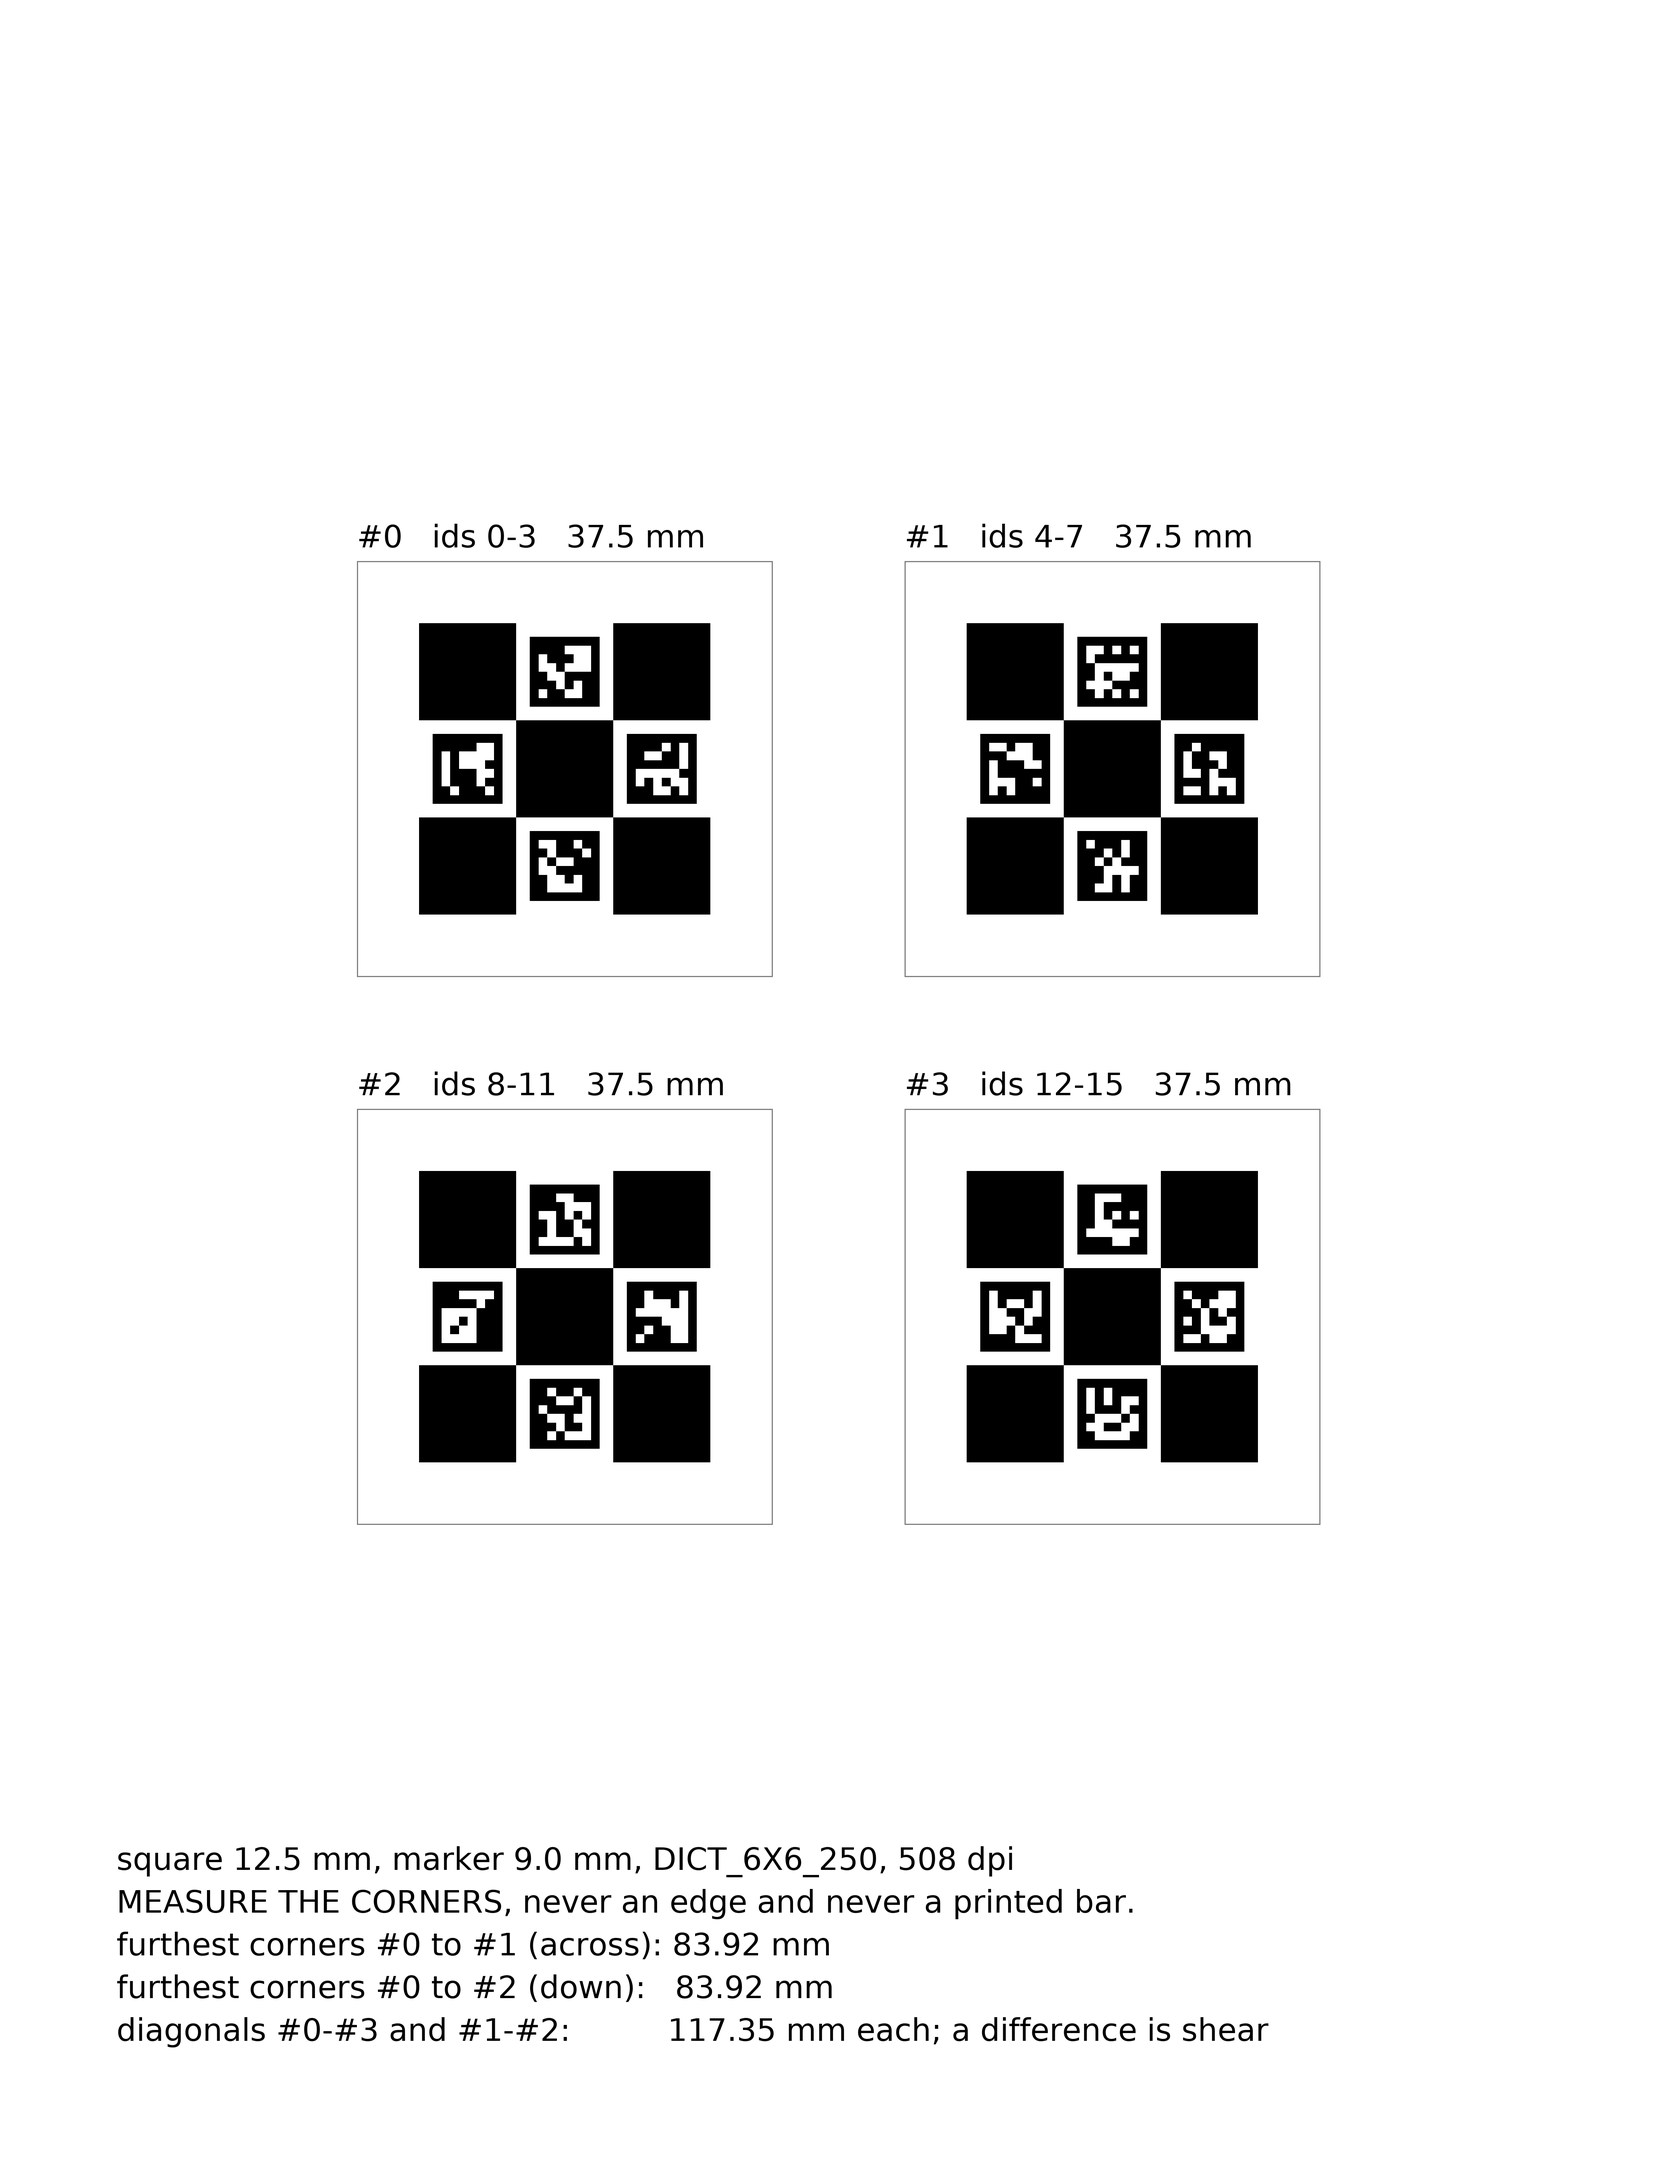
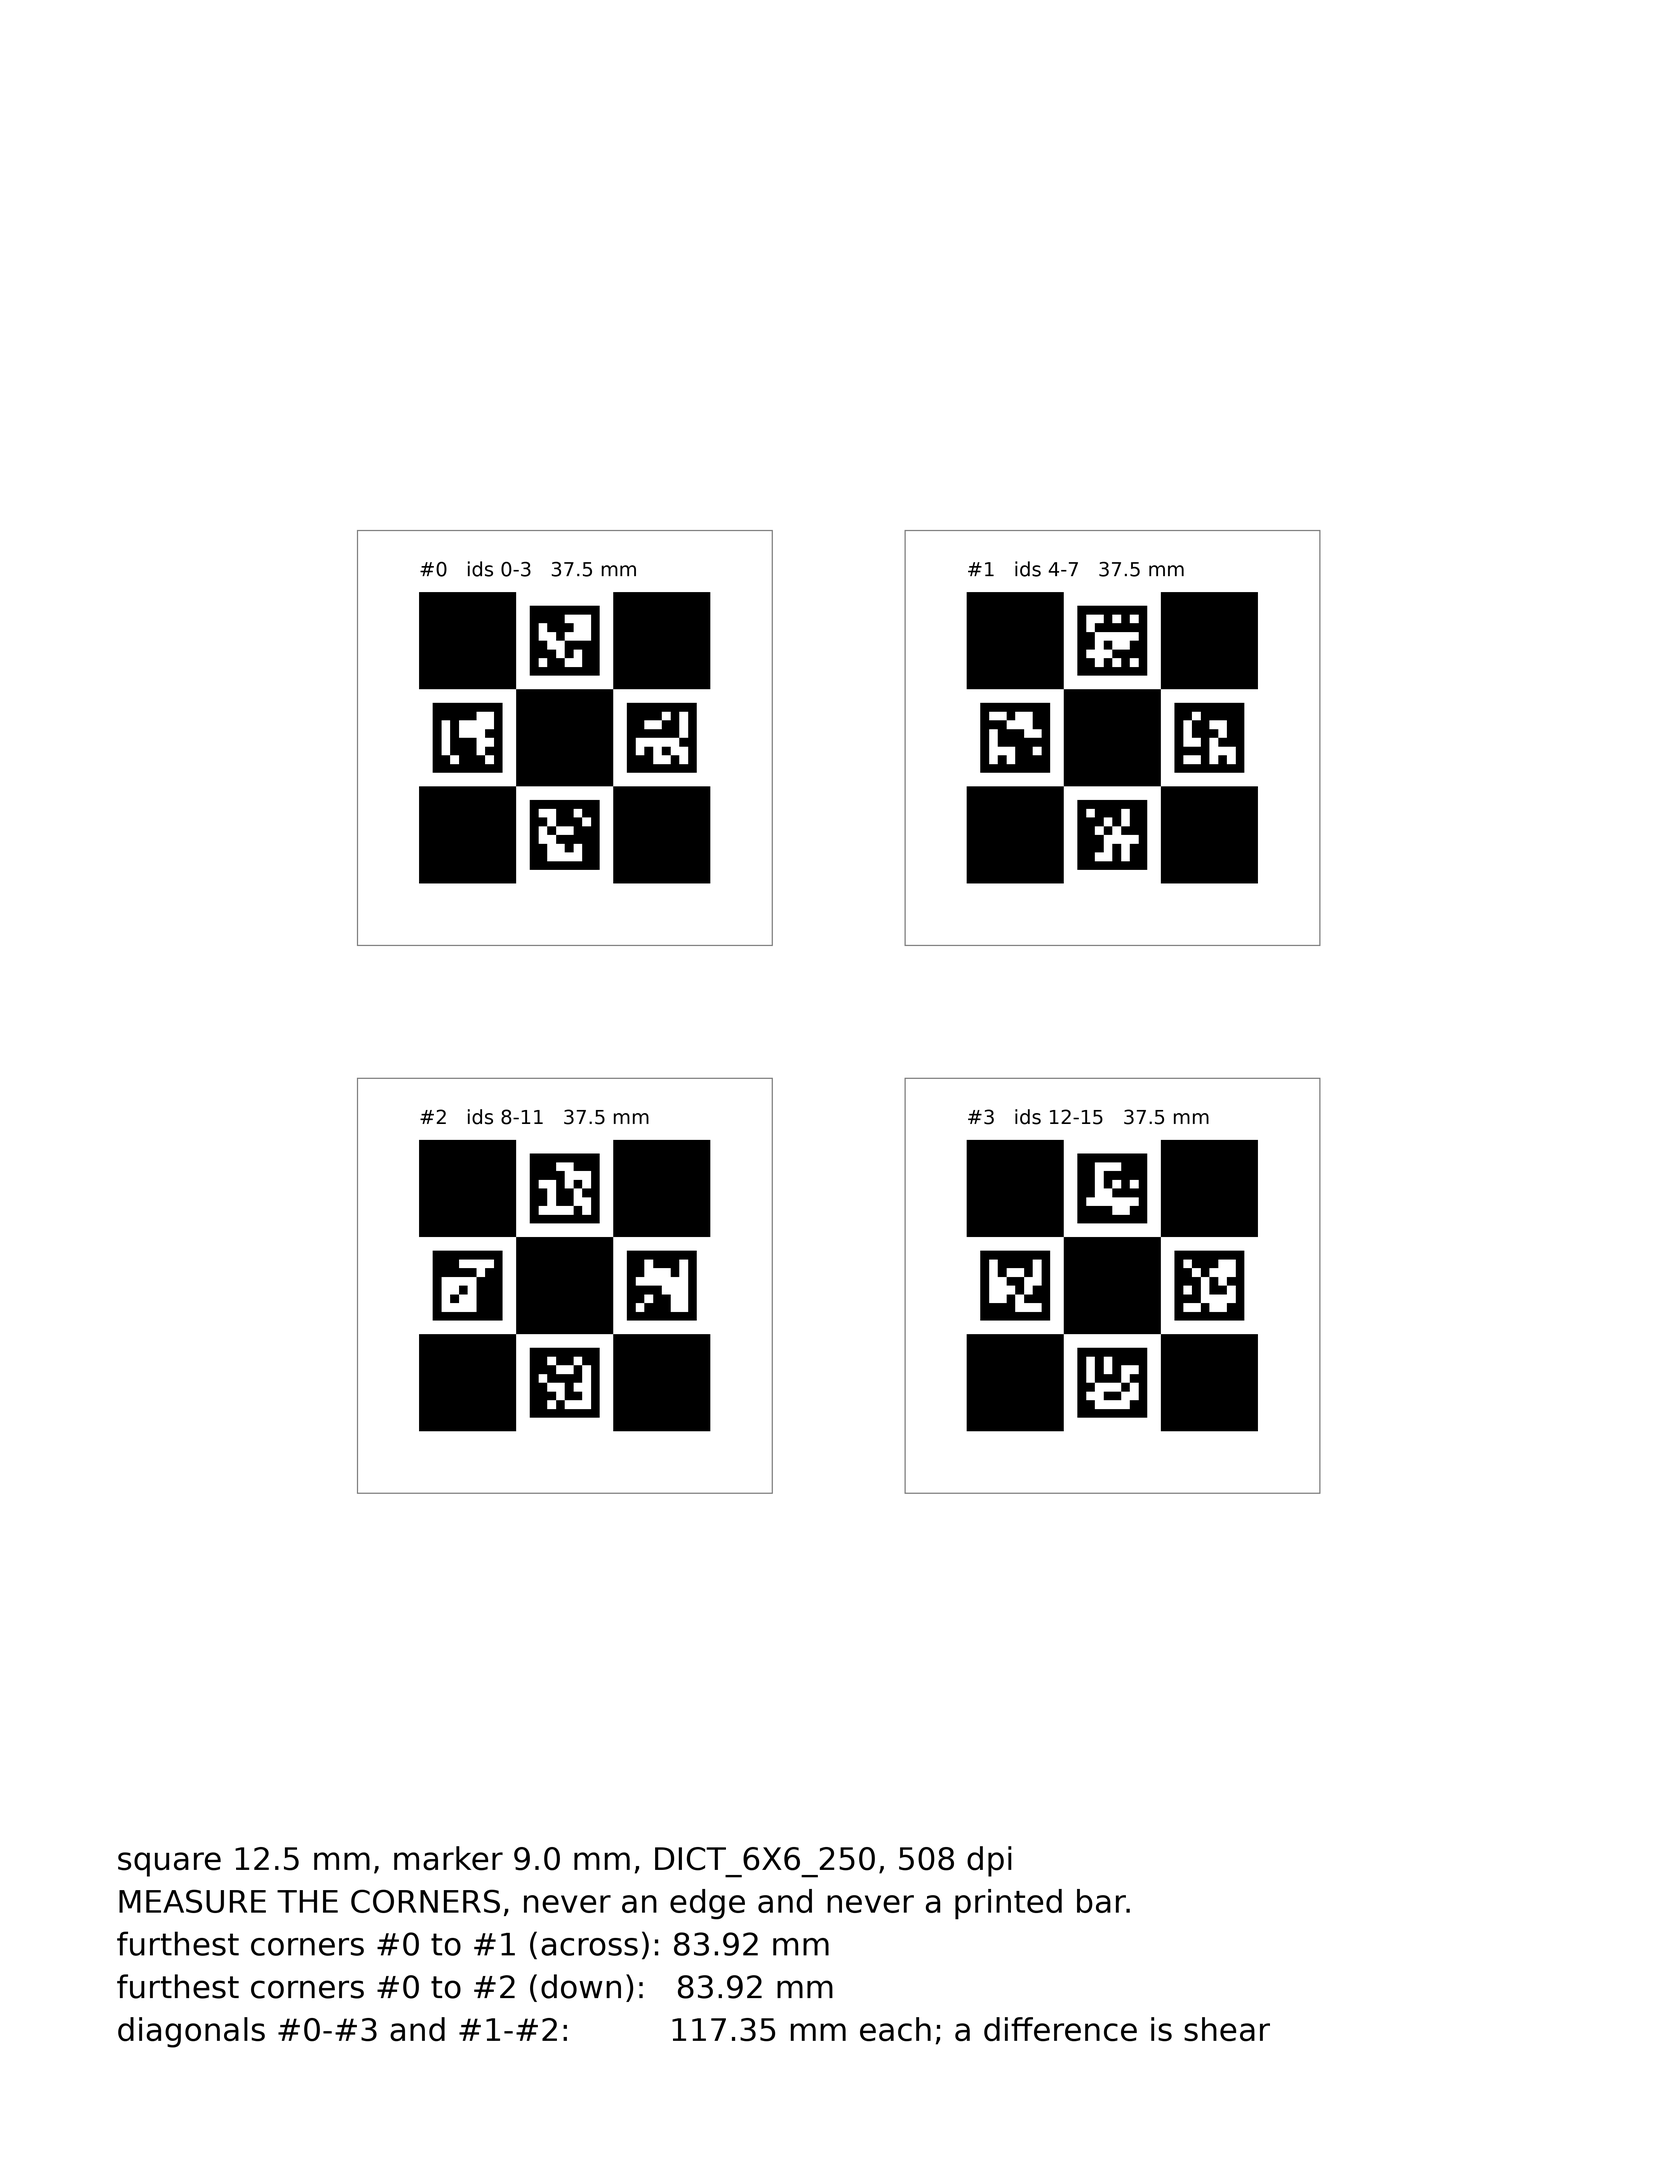
Put the label inside the cut box and shrink it to 2.5 mm
Each piece now comes off the sheet exactly 53.5 mm square carrying
its own "#n ids a-b 37.5 mm". The label was drawn 5.5 mm above the
cut line, so keeping it meant cutting a piece about 62 mm tall and
carrying that onto the disc, and at 4.0 mm em the text was 42.50 mm
wide -- wider than the 37.5 mm board it names. At 2.5 mm em it is
26.55 mm wide with 1.95 mm of ink, about 7.1 pt.

Adds LABEL_EM_MM and LABEL_CLEAR_MM, and places the label by its ink
rather than by its baseline, because a descender is ink too. The
clearance is measured from the ink bottom to the board edge, so it
means what it says whatever the label text turns out to be.

Records at the constant why 2.0 mm of clearance is insurance rather
than a requirement. ChArUco never reads the board outline: it finds
the four interior ArUco markers, whose nearest edge is already
1.75 mm inside the boundary, and a label flush with the board edge
measured 40/40 complete detections with 9 um of corner movement --
the same numbers as no label at all, at 0 and 30 degrees of tilt and
on a white and a grey-60 disc. The 2 mm buys room for registration
error, ink spread and a wobbling blade, none of which that sweep
modelled. docs/planning/labelling-the-cut-targets.md has the sweep.

Refuses a cut margin too narrow for the label rather than printing it
onto the markers, which is the one thing measured to break detection:
2 to 3 mm of overlap destroys the top-middle marker and the remaining
[…]

diff --git a/bin/make_peg_targets_test.py b/bin/make_peg_targets_test.py
@@ -324,8 +324,6 @@ def _ink(sheet, x0_mm, y0_mm, x1_mm, y1_mm):
     return rows / PPM + y0_mm, cols / PPM + x0_mm
 
 
-@pytest.mark.xfail(strict=True,
-                   reason="labels are still outside the cut box")
 def test_the_label_is_inside_the_cut_box():
     """So cutting on the grey line keeps the label.
 
@@ -349,8 +347,6 @@ def test_the_label_is_inside_the_cut_box():
             "label ink outside the cut box sideways")
 
 
-@pytest.mark.xfail(strict=True,
-                   reason="labels are still outside the cut box")
 def test_the_label_keeps_its_clearance_from_the_board():
     """Ink near a marker is the one thing that breaks detection.
 
@@ -373,8 +369,6 @@ def test_the_label_keeps_its_clearance_from_the_board():
             f"less than the {mt.LABEL_CLEAR_MM} mm it should keep")
 
 
-@pytest.mark.xfail(strict=True,
-                   reason="labels are still outside the cut box")
 def test_nothing_is_printed_above_the_cut_box():
     """The cut piece is exactly the cut box, 53.5 mm square.
 
@@ -393,8 +387,6 @@ def test_nothing_is_printed_above_the_cut_box():
             f"cut line, so the piece is taller than its cut box")
 
 
-@pytest.mark.xfail(strict=True,
-                   reason="labels are still outside the cut box")
 def test_the_label_is_the_size_it_claims():
     """Measured off the pixels, because legibility is the point."""
     side = mt.board_side_mm(SQUARES, SQUARE_MM)
@@ -410,16 +402,12 @@ def test_the_label_is_the_size_it_claims():
         "the label is wider than the board it names")
 
 
-@pytest.mark.xfail(strict=True,
-                   reason="labels are still outside the cut box")
 def test_a_margin_too_narrow_for_the_label_is_refused():
     """Rather than printing the label onto the markers."""
     with pytest.raises(ValueError, match="label|margin"):
         _sheet(caliper_mm=CALIPER_MM, margin_mm=1.0)
 
 
-@pytest.mark.xfail(strict=True,
-                   reason="labels are still outside the cut box")
 def test_the_top_of_the_page_is_no_longer_reserved_for_labels():
     """LABEL_SPACE_MM is dead once the labels are inside the box."""
     side = mt.board_side_mm(SQUARES, SQUARE_MM)

diff --git a/data/calibration/targets/peg-targets-3x3-12.5mm.md b/data/calibration/targets/peg-targets-3x3-12.5mm.md
@@ -25,6 +25,17 @@ the squares. The four chessboard corners each piece contributes are
 but a cut a millimetre inside it destroys the contrast a corner is
 made of.
 
+**The label is inside the cut box, so cutting on the grey line keeps
+it.** Each piece comes off the sheet 53.5 mm square carrying its own
+`#n  ids a-b  37.5 mm` at 2.5 mm em, 2.0 mm clear of the board. That
+clearance is insurance against ink spread and a wobbling blade, not a
+detection requirement: ChArUco never reads the board outline, only
+the four interior markers, whose nearest edge is already 1.75 mm
+inside the boundary, and a label flush with the board measured 40/40
+detections and 9 um of corner movement — the same as no label at all.
+See
+[../../../docs/planning/labelling-the-cut-targets.md](../../../docs/planning/labelling-the-cut-targets.md).
+
 **Measure the corners after printing, and only the corners.** The
 sheet has no scale bar: see
 [../../../docs/planning/measuring-the-printed-target.md](../../../docs/planning/measuring-the-printed-target.md)
